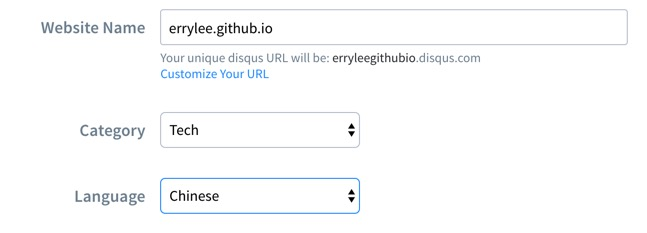
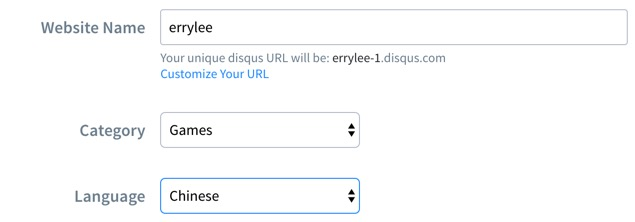
Site updated: 2017-06-15 11:54:24

diff --git a/2017/06/14/Github博客教程/index.html b/2017/06/14/Github博客教程/index.html
@@ -20,7 +20,7 @@
 <meta property="og:image" content="http://yoursite.com/images/hexo/config.png">
 <meta property="og:image" content="http://yoursite.com/images/hexo/disqus2.png">
 <meta property="og:image" content="http://yoursite.com/images/hexo/disqus3.png">
-<meta property="og:updated_time" content="2017-06-14T11:56:06.000Z">
+<meta property="og:updated_time" content="2017-06-15T02:58:44.000Z">
 <meta name="twitter:card" content="summary">
 <meta name="twitter:title" content="Github博客教程">
 <meta name="twitter:description" content="文章主要描述了利用github page，hexo静态博客框架以及disqus来搭建个人静态博客的详细步骤。 github page用来搭建博客的主页，hexo用来更改博客主题、发布文章等等，并通过配置文件和Disqus来添加评论功能。 具体步骤如下 环境要求 安装Node,官网下载安装，用来生成静态页面  安装Hexo,sudo npm install hexo -g，一个基于node的开源静">
@@ -220,8 +220,8 @@
 <p>hexo框架的默认主题是landscape，你可以通过在 <a href="https://github.com/hexojs/hexo/wiki/Themes" target="_blank" rel="external">主题列表</a> 里下载好自己喜欢的主题，将该主题文件放到根目录下的themes文件夹下，例如 <a href="https://github.com/litten/hexo-theme-yilia" target="_blank" rel="external">hexo-theme-yilia</a>，可以将文件夹名改为yilia，然后在根目录下的_config.yml中将theme改为<code>theme: yilia</code>.</p>
 <p>第一次进行deploy时需要的时间比较长，大约10分钟左右，以后每次执行完<code>hexo clean</code>，<code>hexo g -d</code>命令，可以立即刷新页面查看</p>
 <p>根目录下的_config.yml和配置的theme目录下的_config.yml中有很多和页面相关的样式和功能配置，可以查看相关主题github主页的相关教程进行配置，当然你也可以自己修改下载好的theme下的样式和页面模板，对自己的页面进行调整。</p>
-<h3 id="Disqus评论模块的添加"><a href="#Disqus评论模块的添加" class="headerlink" title="Disqus评论模块的添加"></a>Disqus评论模块的添加</h3><p>以我自己博客所选主题yilia为例，在 themes/yilia/路径下的_config.yml文件中，添加disqus相关项 <code>disqus_shortname: ErryLee</code>，ErryLee为你在Disqus上配置的site的shorname（接下来会配置shortname），Disqus的配置步骤如下:</p>
-<p><a href="https://blog.disqus.com/" target="_blank" rel="external">Disqus网址</a>，注册完账号登录后点击右上角Home跳转到主页，然后点击齿轮按钮选择<a href="https://disqus.com/features/engage/" target="_blank" rel="external">Add Dusqus To Site</a>，跳转后拉到页面最下方，点<a href="https://disqus.com/profile/signup/" target="_blank" rel="external">GET STARTED</a>，再次跳转后选择<a href="https://disqus.com/admin/create/" target="_blank" rel="external">I want to install Disqus on my site</a>，然后在新页面中填写你的github page的地址、类型和语言，如下图：</p>
+<h3 id="Disqus评论模块的添加"><a href="#Disqus评论模块的添加" class="headerlink" title="Disqus评论模块的添加"></a>Disqus评论模块的添加</h3><p>以我自己博客所选主题yilia为例，在 themes/yilia/路径下的_config.yml文件中，disqus设置为真<code>disqus: true</code>，并添加disqus相关项 <code>disqus_shortname: ErryLee</code>，ErryLee为你在Disqus上配置的site的shorname（接下来会配置shortname），Disqus的配置步骤如下:</p>
+<p><a href="https://blog.disqus.com/" target="_blank" rel="external">Disqus网址</a>，注册完账号登录后点击右上角Home跳转到主页，然后点击齿轮按钮选择<a href="https://disqus.com/features/engage/" target="_blank" rel="external">Add Dusqus To Site</a>，跳转后拉到页面最下方，点<a href="https://disqus.com/profile/signup/" target="_blank" rel="external">GET STARTED</a>，再次跳转后选择<a href="https://disqus.com/admin/create/" target="_blank" rel="external">I want to install Disqus on my site</a>，然后在新页面中填写你的website name、type和language，如下图：</p>
 <p><img src="/images/hexo/disqus2.png" alt="disqus"></p>
 <p>创建成功后，在新页面点击Install Disqus，Platform选择为Universal Code，拉到页面最下面点击按钮即可。</p>
 <p>然后点击Configure Disqus，将Website Name改为你想要的名称，我的为ErryLee，URL设置为你的Github page地址，然后完成。</p>

diff --git a/index.html b/index.html
@@ -8,12 +8,15 @@
   <link rel="dns-prefetch" href="http://yoursite.com">
   <title>ErryLee的博客</title>
   <meta name="viewport" content="width=device-width, initial-scale=1, maximum-scale=1">
-  <meta property="og:type" content="website">
+  <meta name="description" content="github 博客，hexo 博客搭建">
+<meta property="og:type" content="website">
 <meta property="og:title" content="ErryLee的博客">
 <meta property="og:url" content="http://yoursite.com/index.html">
 <meta property="og:site_name" content="ErryLee的博客">
+<meta property="og:description" content="github 博客，hexo 博客搭建">
 <meta name="twitter:card" content="summary">
 <meta name="twitter:title" content="ErryLee的博客">
+<meta name="twitter:description" content="github 博客，hexo 博客搭建">
   
     <link rel="alternative" href="/atom.xml" title="ErryLee的博客" type="application/atom+xml">
   
@@ -211,8 +214,8 @@
 <p>hexo框架的默认主题是landscape，你可以通过在 <a href="https://github.com/hexojs/hexo/wiki/Themes" target="_blank" rel="external">主题列表</a> 里下载好自己喜欢的主题，将该主题文件放到根目录下的themes文件夹下，例如 <a href="https://github.com/litten/hexo-theme-yilia" target="_blank" rel="external">hexo-theme-yilia</a>，可以将文件夹名改为yilia，然后在根目录下的_config.yml中将theme改为<code>theme: yilia</code>.</p>
 <p>第一次进行deploy时需要的时间比较长，大约10分钟左右，以后每次执行完<code>hexo clean</code>，<code>hexo g -d</code>命令，可以立即刷新页面查看</p>
 <p>根目录下的_config.yml和配置的theme目录下的_config.yml中有很多和页面相关的样式和功能配置，可以查看相关主题github主页的相关教程进行配置，当然你也可以自己修改下载好的theme下的样式和页面模板，对自己的页面进行调整。</p>
-<h3 id="Disqus评论模块的添加"><a href="#Disqus评论模块的添加" class="headerlink" title="Disqus评论模块的添加"></a>Disqus评论模块的添加</h3><p>以我自己博客所选主题yilia为例，在 themes/yilia/路径下的_config.yml文件中，添加disqus相关项 <code>disqus_shortname: ErryLee</code>，ErryLee为你在Disqus上配置的site的shorname（接下来会配置shortname），Disqus的配置步骤如下:</p>
-<p><a href="https://blog.disqus.com/" target="_blank" rel="external">Disqus网址</a>，注册完账号登录后点击右上角Home跳转到主页，然后点击齿轮按钮选择<a href="https://disqus.com/features/engage/" target="_blank" rel="external">Add Dusqus To Site</a>，跳转后拉到页面最下方，点<a href="https://disqus.com/profile/signup/" target="_blank" rel="external">GET STARTED</a>，再次跳转后选择<a href="https://disqus.com/admin/create/" target="_blank" rel="external">I want to install Disqus on my site</a>，然后在新页面中填写你的github page的地址、类型和语言，如下图：</p>
+<h3 id="Disqus评论模块的添加"><a href="#Disqus评论模块的添加" class="headerlink" title="Disqus评论模块的添加"></a>Disqus评论模块的添加</h3><p>以我自己博客所选主题yilia为例，在 themes/yilia/路径下的_config.yml文件中，disqus设置为真<code>disqus: true</code>，并添加disqus相关项 <code>disqus_shortname: ErryLee</code>，ErryLee为你在Disqus上配置的site的shorname（接下来会配置shortname），Disqus的配置步骤如下:</p>
+<p><a href="https://blog.disqus.com/" target="_blank" rel="external">Disqus网址</a>，注册完账号登录后点击右上角Home跳转到主页，然后点击齿轮按钮选择<a href="https://disqus.com/features/engage/" target="_blank" rel="external">Add Dusqus To Site</a>，跳转后拉到页面最下方，点<a href="https://disqus.com/profile/signup/" target="_blank" rel="external">GET STARTED</a>，再次跳转后选择<a href="https://disqus.com/admin/create/" target="_blank" rel="external">I want to install Disqus on my site</a>，然后在新页面中填写你的website name、type和language，如下图：</p>
 <p><img src="/images/hexo/disqus2.png" alt="disqus"></p>
 <p>创建成功后，在新页面点击Install Disqus，Platform选择为Universal Code，拉到页面最下面点击按钮即可。</p>
 <p>然后点击Configure Disqus，将Website Name改为你想要的名称，我的为ErryLee，URL设置为你的Github page地址，然后完成。</p>

diff --git a/tags/index.html b/tags/index.html
@@ -8,13 +8,16 @@
   <link rel="dns-prefetch" href="http://yoursite.com">
   <title>tags | ErryLee的博客</title>
   <meta name="viewport" content="width=device-width, initial-scale=1, maximum-scale=1">
-  <meta property="og:type" content="website">
+  <meta name="description" content="github 博客，hexo 博客搭建">
+<meta property="og:type" content="website">
 <meta property="og:title" content="tags">
 <meta property="og:url" content="http://yoursite.com/tags/index.html">
 <meta property="og:site_name" content="ErryLee的博客">
+<meta property="og:description" content="github 博客，hexo 博客搭建">
 <meta property="og:updated_time" content="2017-06-14T03:59:59.000Z">
 <meta name="twitter:card" content="summary">
 <meta name="twitter:title" content="tags">
+<meta name="twitter:description" content="github 博客，hexo 博客搭建">
   
     <link rel="alternative" href="/atom.xml" title="ErryLee的博客" type="application/atom+xml">
   

diff --git a/archives/2017/06/index.html b/archives/2017/06/index.html
@@ -8,12 +8,15 @@
   <link rel="dns-prefetch" href="http://yoursite.com">
   <title>Archives: 2017/6 | ErryLee的博客</title>
   <meta name="viewport" content="width=device-width, initial-scale=1, maximum-scale=1">
-  <meta property="og:type" content="website">
+  <meta name="description" content="github 博客，hexo 博客搭建">
+<meta property="og:type" content="website">
 <meta property="og:title" content="ErryLee的博客">
 <meta property="og:url" content="http://yoursite.com/archives/2017/06/index.html">
 <meta property="og:site_name" content="ErryLee的博客">
+<meta property="og:description" content="github 博客，hexo 博客搭建">
 <meta name="twitter:card" content="summary">
 <meta name="twitter:title" content="ErryLee的博客">
+<meta name="twitter:description" content="github 博客，hexo 博客搭建">
   
     <link rel="alternative" href="/atom.xml" title="ErryLee的博客" type="application/atom+xml">
   

diff --git a/archives/2017/index.html b/archives/2017/index.html
@@ -8,12 +8,15 @@
   <link rel="dns-prefetch" href="http://yoursite.com">
   <title>Archives: 2017 | ErryLee的博客</title>
   <meta name="viewport" content="width=device-width, initial-scale=1, maximum-scale=1">
-  <meta property="og:type" content="website">
+  <meta name="description" content="github 博客，hexo 博客搭建">
+<meta property="og:type" content="website">
 <meta property="og:title" content="ErryLee的博客">
 <meta property="og:url" content="http://yoursite.com/archives/2017/index.html">
 <meta property="og:site_name" content="ErryLee的博客">
+<meta property="og:description" content="github 博客，hexo 博客搭建">
 <meta name="twitter:card" content="summary">
 <meta name="twitter:title" content="ErryLee的博客">
+<meta name="twitter:description" content="github 博客，hexo 博客搭建">
   
     <link rel="alternative" href="/atom.xml" title="ErryLee的博客" type="application/atom+xml">
   

diff --git a/tags/disqus/index.html b/tags/disqus/index.html
@@ -8,12 +8,15 @@
   <link rel="dns-prefetch" href="http://yoursite.com">
   <title>Tag: disqus | ErryLee的博客</title>
   <meta name="viewport" content="width=device-width, initial-scale=1, maximum-scale=1">
-  <meta property="og:type" content="website">
+  <meta name="description" content="github 博客，hexo 博客搭建">
+<meta property="og:type" content="website">
 <meta property="og:title" content="ErryLee的博客">
 <meta property="og:url" content="http://yoursite.com/tags/disqus/index.html">
 <meta property="og:site_name" content="ErryLee的博客">
+<meta property="og:description" content="github 博客，hexo 博客搭建">
 <meta name="twitter:card" content="summary">
 <meta name="twitter:title" content="ErryLee的博客">
+<meta name="twitter:description" content="github 博客，hexo 博客搭建">
   
     <link rel="alternative" href="/atom.xml" title="ErryLee的博客" type="application/atom+xml">
   

diff --git a/tags/github/index.html b/tags/github/index.html
@@ -8,12 +8,15 @@
   <link rel="dns-prefetch" href="http://yoursite.com">
   <title>Tag: github | ErryLee的博客</title>
   <meta name="viewport" content="width=device-width, initial-scale=1, maximum-scale=1">
-  <meta property="og:type" content="website">
+  <meta name="description" content="github 博客，hexo 博客搭建">
+<meta property="og:type" content="website">
 <meta property="og:title" content="ErryLee的博客">
 <meta property="og:url" content="http://yoursite.com/tags/github/index.html">
 <meta property="og:site_name" content="ErryLee的博客">
+<meta property="og:description" content="github 博客，hexo 博客搭建">
 <meta name="twitter:card" content="summary">
 <meta name="twitter:title" content="ErryLee的博客">
+<meta name="twitter:description" content="github 博客，hexo 博客搭建">
   
     <link rel="alternative" href="/atom.xml" title="ErryLee的博客" type="application/atom+xml">
   

diff --git a/tags/hexo/index.html b/tags/hexo/index.html
@@ -8,12 +8,15 @@
   <link rel="dns-prefetch" href="http://yoursite.com">
   <title>Tag: hexo | ErryLee的博客</title>
   <meta name="viewport" content="width=device-width, initial-scale=1, maximum-scale=1">
-  <meta property="og:type" content="website">
+  <meta name="description" content="github 博客，hexo 博客搭建">
+<meta property="og:type" content="website">
 <meta property="og:title" content="ErryLee的博客">
 <meta property="og:url" content="http://yoursite.com/tags/hexo/index.html">
 <meta property="og:site_name" content="ErryLee的博客">
+<meta property="og:description" content="github 博客，hexo 博客搭建">
 <meta name="twitter:card" content="summary">
 <meta name="twitter:title" content="ErryLee的博客">
+<meta name="twitter:description" content="github 博客，hexo 博客搭建">
   
     <link rel="alternative" href="/atom.xml" title="ErryLee的博客" type="application/atom+xml">
   

diff --git a/archives/index.html b/archives/index.html
@@ -8,12 +8,15 @@
   <link rel="dns-prefetch" href="http://yoursite.com">
   <title>Archives | ErryLee的博客</title>
   <meta name="viewport" content="width=device-width, initial-scale=1, maximum-scale=1">
-  <meta property="og:type" content="website">
+  <meta name="description" content="github 博客，hexo 博客搭建">
+<meta property="og:type" content="website">
 <meta property="og:title" content="ErryLee的博客">
 <meta property="og:url" content="http://yoursite.com/archives/index.html">
 <meta property="og:site_name" content="ErryLee的博客">
+<meta property="og:description" content="github 博客，hexo 博客搭建">
 <meta name="twitter:card" content="summary">
 <meta name="twitter:title" content="ErryLee的博客">
+<meta name="twitter:description" content="github 博客，hexo 博客搭建">
   
     <link rel="alternative" href="/atom.xml" title="ErryLee的博客" type="application/atom+xml">
   
